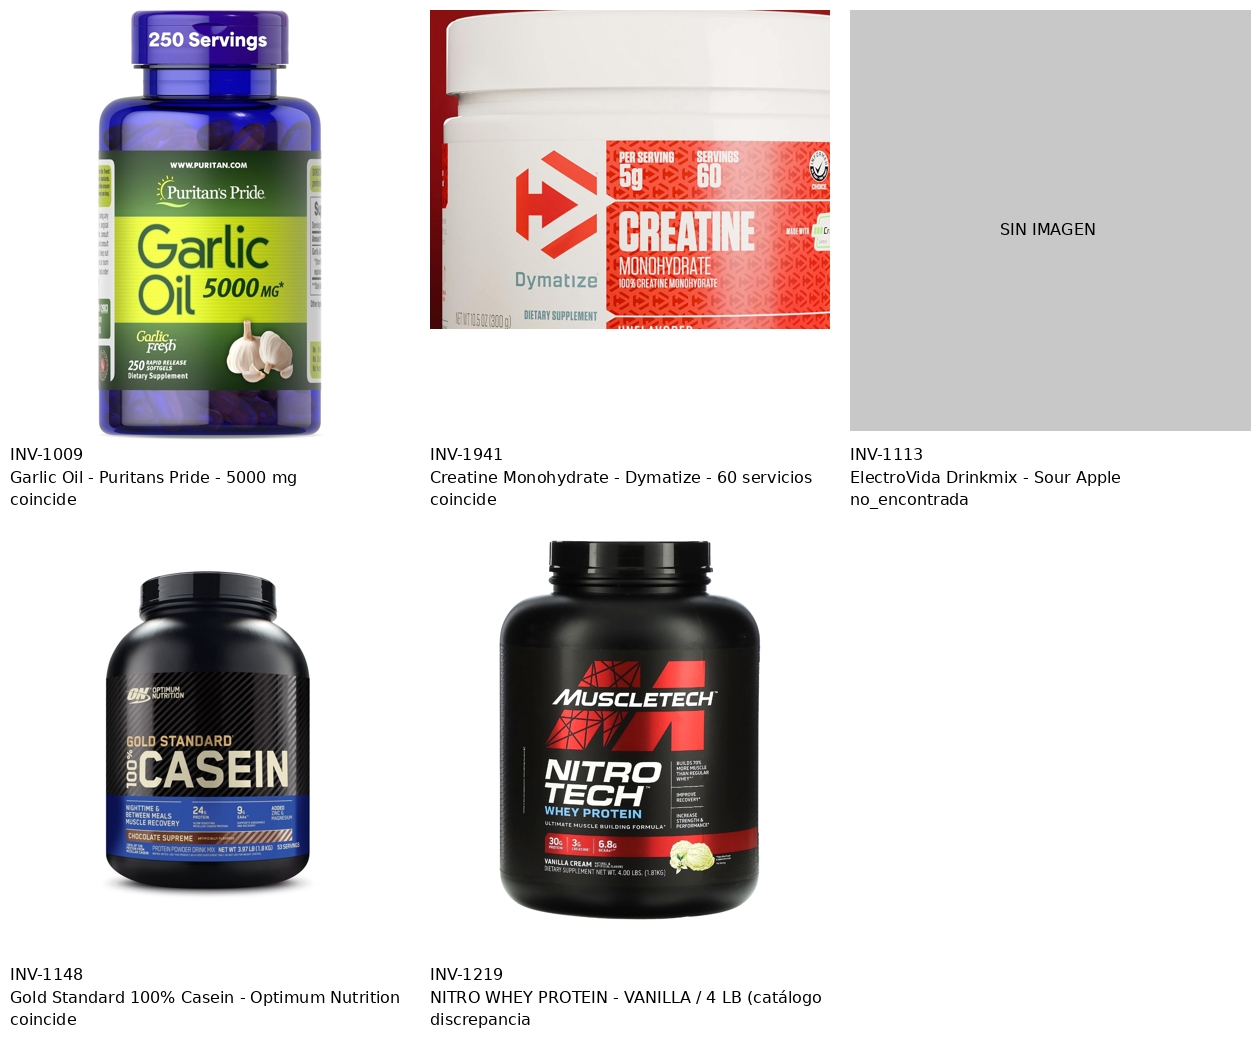
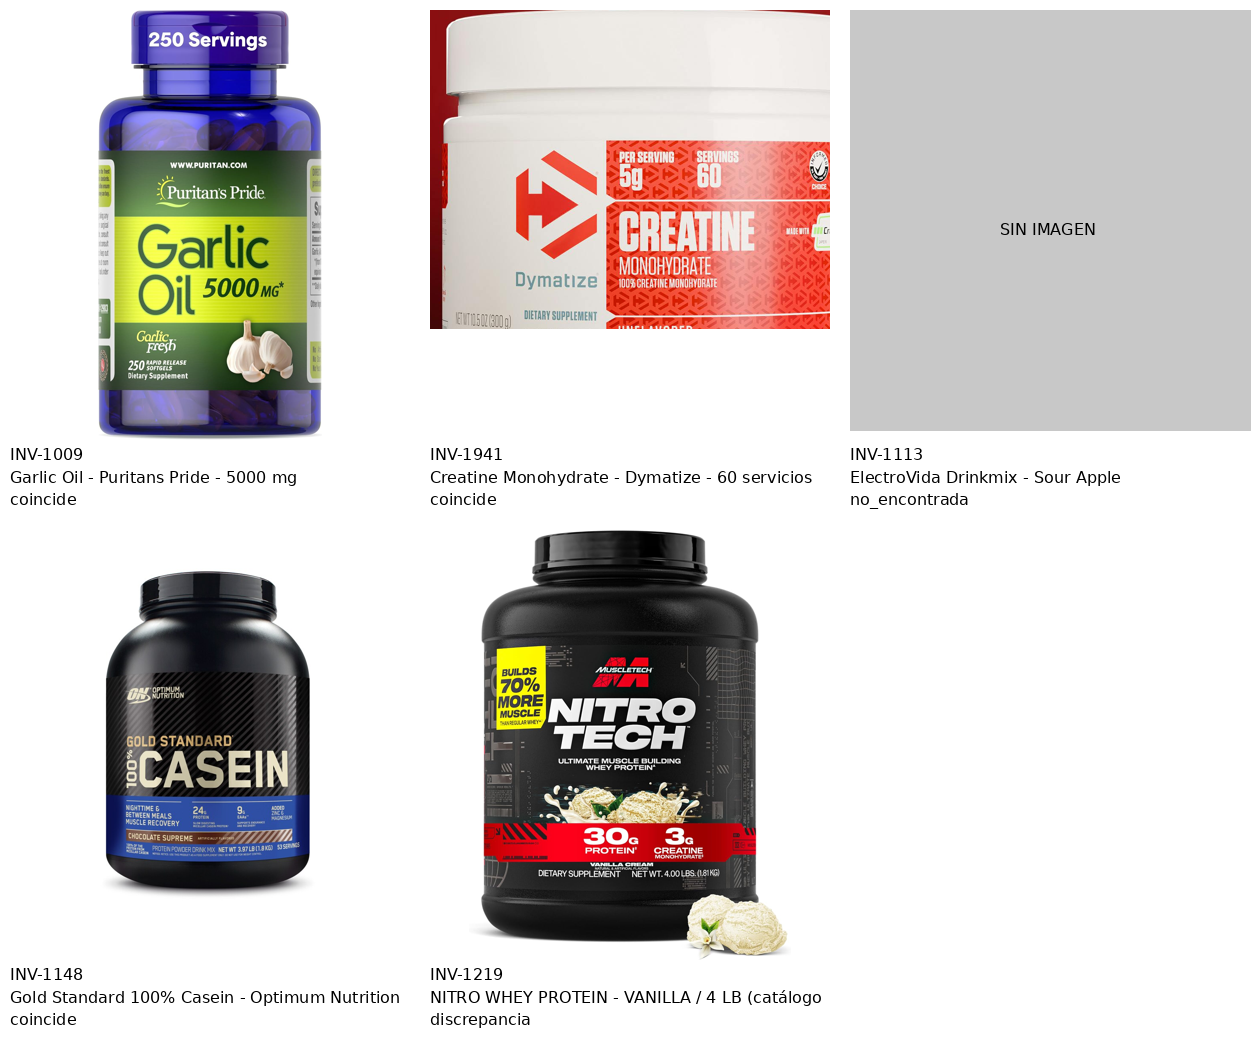
fotos r2-07-18nov: INV-1219 con carátula nueva de Nitro-Tech
Claude-Session: https://claude.ai/code/session_01CjMpH6HqN92ZcJEvpQcMgB

Changed region(s): [[0.3714, 0.4923, 0.619, 0.9231]]

diff --git a/docs/fotos/r2-07-18nov/README.md b/docs/fotos/r2-07-18nov/README.md
@@ -6,6 +6,6 @@
 | INV-1941 Creatine Dymatize 60 serv/300 g unflavored | coincide | dymatize.com oficial, 1170x2400 (recortar frasco) |
 | INV-1113 ElectroVida Sour Apple | no_encontrada | ver `candidatas.csv` (fuentes probadas) |
 | INV-1148 Gold Standard Casein Chocolate Supreme 3.97 lb | coincide | Kroger CDN, 1000x1000 (no 1600) |
-| INV-1219 Nitro Whey vainilla 4 lb | discrepancia | MuscleTech Nitro-Tech Vanilla Cream; ninguna otra marca con "Nitro Whey" |
+| INV-1219 Nitro Whey vainilla 4 lb | discrepancia | MuscleTech Nitro-Tech Vanilla Cream, carátula nueva (Amazon, 1124x1500); la vieja queda aparte; ninguna otra marca con "Nitro Whey" |
 
 Verificado a ojo marca, producto, sabor y tamaño. No se publicó ni se tocó tienda/API. Fotos de internet solo para la tienda de la dueña. Revisar derechos antes de publicar.
